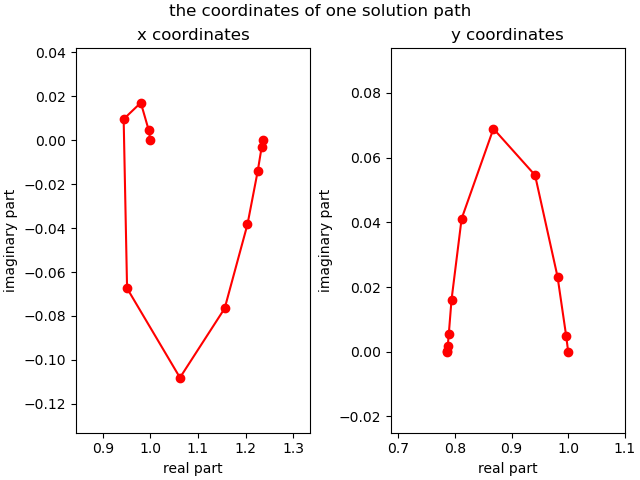
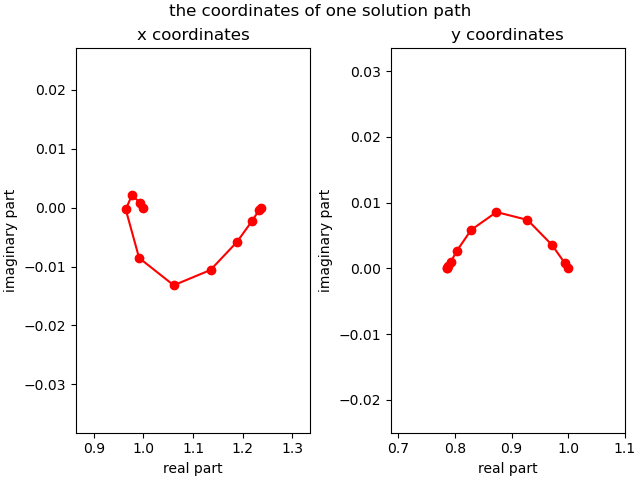
fixed documentation on aposteriori step control

diff --git a/src/Python/PHCpy/doc/source/incfixaposteriori.rst b/src/Python/PHCpy/doc/source/incfixaposteriori.rst
@@ -78,6 +78,13 @@ A start system based on the total degree is constructed.
 
 The ``len(startsols)`` returns ``4`` and thus we have 4 paths.
 
+For deterministic runs, we set the seed of the random number generators:
+
+::
+
+    from phcpy.dimension import set_seed
+    set_seed(2024)
+
 let the path trackers run
 -------------------------
 
@@ -152,6 +159,7 @@ in quad double precision.
 
 Even if we track only one path, the start solution must be given 
 in a list of one element.
+Observe that we use the same value of ``gamma`` as before.
 
 ::
 
@@ -363,11 +371,12 @@ In the code cell below, the loop continues
 calling ``next_double_solution`` until the value 
 of the continuation parameter is less than 1.0.
 The real part and imaginary part of the gamma constant 
-are fixed for a deterministic run.
+are set to the same value of ``gamma`` as in the first run.
 
 ::
 
-    initialize_double_tracker(target, start, regamma=0.345, imgamma=-0.765)
+    initialize_double_tracker(target, start, fixedgamma=False, \
+                              regamma=gamma.real, imgamma=gamma.imag)
     initialize_double_solution(len(target), startsols[0])
     tval = 0.0
     path = [startsols[0]]
